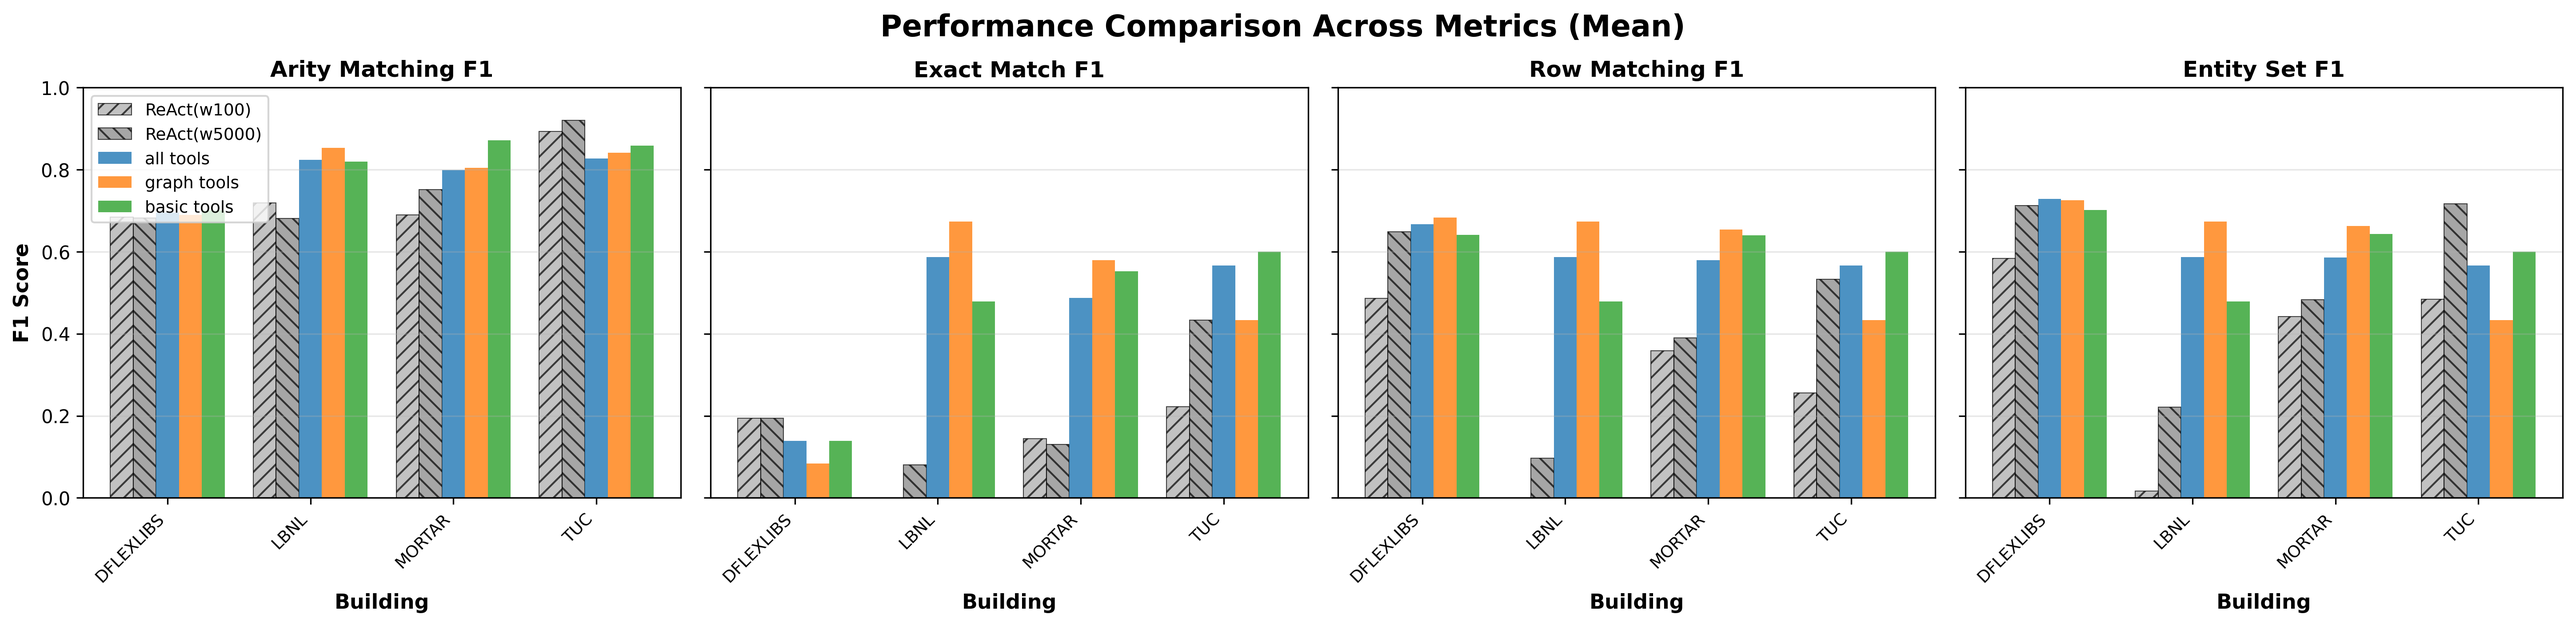
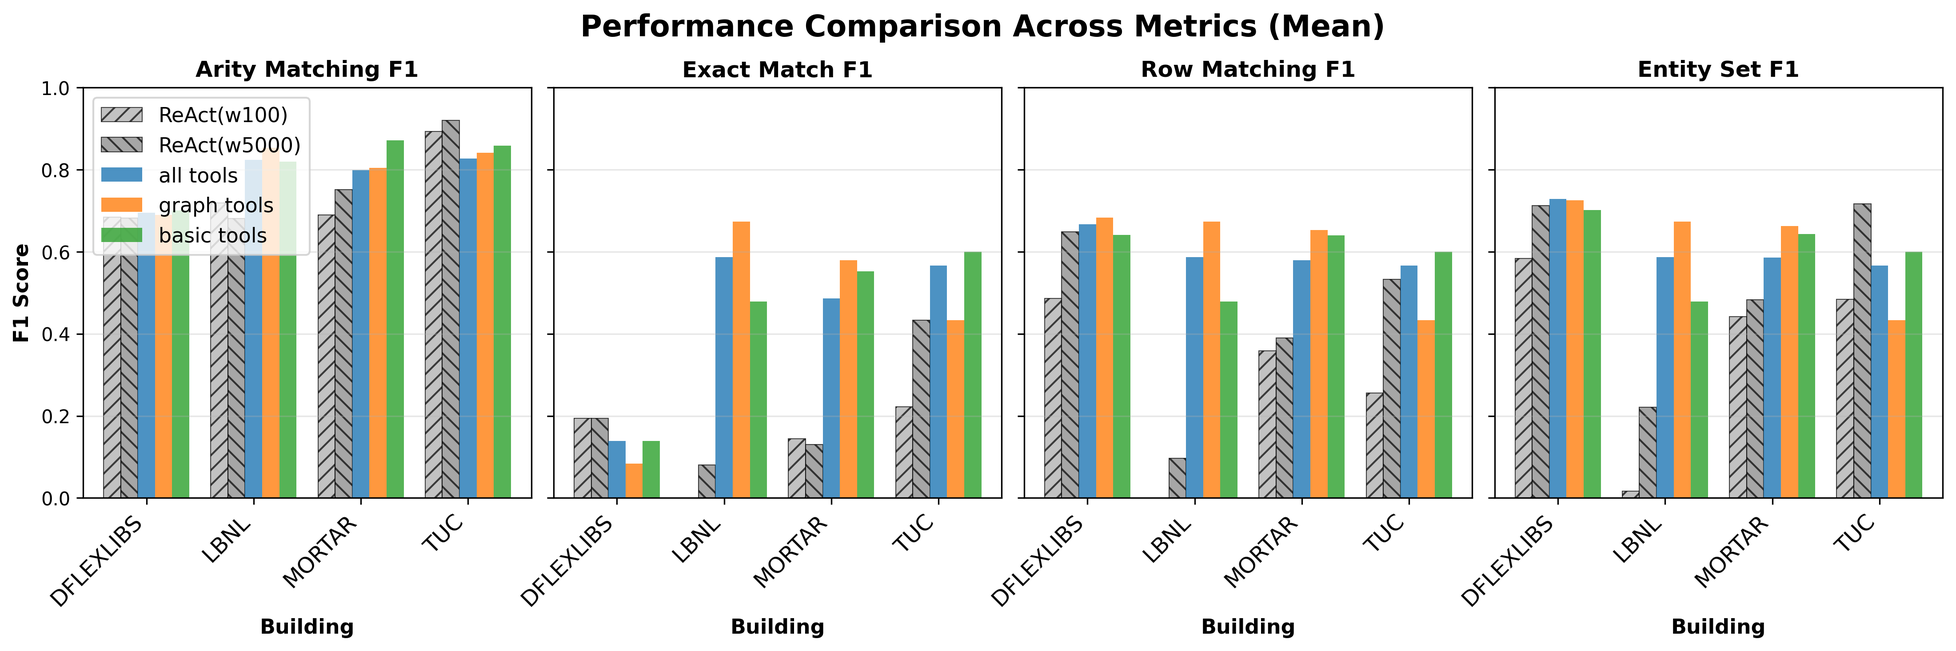
updating plots

diff --git a/scripts/visualize_metrics.py b/scripts/visualize_metrics.py
@@ -149,93 +149,6 @@ def compute_overall_metrics(data):
 
 
 # ----------------------------------------------------------------------
-# Bar chart: Mean by Building with baseline/test distinction
-# ----------------------------------------------------------------------
-def plot_building_comparison_bars(
-    baseline_dict: Dict[str, dict],
-    test_dict: Dict[str, dict],
-    f1_metric: str = "exact_match_f1",
-    output_path: str = "building_comparison.png"
-):
-    """
-    Create grouped bar chart comparing mean F1 scores by building across CSVs.
-    
-    Args:
-        baseline_dict: Dict mapping baseline names to building stats
-        test_dict: Dict mapping test names to building stats
-        f1_metric: Which F1 metric to plot
-        output_path: Where to save the figure
-    """
-    # Get all unique buildings across all CSVs
-    all_buildings = set()
-    for stats in list(baseline_dict.values()) + list(test_dict.values()):
-        all_buildings.update(stats.keys())
-    buildings = sorted(all_buildings)
-    
-    # Prepare data
-    x = np.arange(len(buildings))
-    total_bars = len(baseline_dict) + len(test_dict)
-    width = 0.8 / total_bars  # Width of bars
-    
-    fig, ax = plt.subplots(figsize=(14, 4))
-    
-    # Baseline colors (grays) and patterns
-    baseline_colors = ['#A9A9A9', '#808080', '#696969', '#5C5C5C']
-    hatches = ['///', '\\\\\\', '|||', '---']
-    
-    # Test colors (vibrant)
-    test_colors = ['#1f77b4', '#ff7f0e', '#2ca02c', '#d62728', '#9467bd', '#8c564b']
-    
-    bar_idx = 0
-    
-    # Plot baselines first
-    for i, (name, stats) in enumerate(baseline_dict.items()):
-        means = []
-        for building in buildings:
-            if building in stats:
-                means.append(stats[building]["f1_scores"][f1_metric]["mean"])
-            else:
-                means.append(0.0)
-        
-        offset = width * (bar_idx - total_bars / 2 + 0.5)
-        color = baseline_colors[i % len(baseline_colors)]
-        hatch = hatches[i % len(hatches)]
-        ax.bar(x + offset, means, width, label=f"{name}", 
-               alpha=0.7, color=color, hatch=hatch, edgecolor='black', linewidth=0.5)
-        bar_idx += 1
-    
-    # Plot test runs
-    for i, (name, stats) in enumerate(test_dict.items()):
-        means = []
-        for building in buildings:
-            if building in stats:
-                means.append(stats[building]["f1_scores"][f1_metric]["mean"])
-            else:
-                means.append(0.0)
-        
-        offset = width * (bar_idx - total_bars / 2 + 0.5)
-        color = test_colors[i % len(test_colors)]
-        ax.bar(x + offset, means, width, label=name, 
-               alpha=0.8, color=color)
-        bar_idx += 1
-    
-    ax.set_xlabel('Building', fontsize=12, fontweight='bold')
-    ax.set_ylabel(f'{f1_metric.replace("_", " ").title()}', fontsize=12, fontweight='bold')
-    ax.set_title(f'Performance Comparison by Building\n({f1_metric.replace("_", " ").title()})', 
-                 fontsize=14, fontweight='bold')
-    ax.set_xticks(x)
-    ax.set_xticklabels(buildings, rotation=45, ha='right')
-    ax.legend()
-    ax.grid(axis='y', alpha=0.3)
-    ax.set_ylim(0, 1.0)  # Common y-axis for F1 scores
-    
-    plt.tight_layout()
-    plt.savefig(output_path, dpi=300, bbox_inches='tight')
-    print(f"Bar chart saved to: {output_path}")
-    plt.close()
-
-
-# ----------------------------------------------------------------------
 # Scatter plot: Mean Performance vs Token Count (Overall)
 # ----------------------------------------------------------------------
 def plot_performance_vs_tokens_scatter(
@@ -320,7 +233,7 @@ def plot_all_f1_metrics_comparison(
     f1_metrics = ["arity_matching_f1", "exact_match_f1", "row_matching_f1", "entity_set_f1"]
     metric_titles = ["Arity Matching F1", "Exact Match F1", "Row Matching F1", "Entity Set F1"]
     
-    fig, axes = plt.subplots(1, 4, figsize=(24, 4))
+    fig, axes = plt.subplots(1, 4, figsize=(18, 4))
     
     # Get all unique buildings
     all_buildings = set()
@@ -383,9 +296,9 @@ def plot_all_f1_metrics_comparison(
             ax.set_yticklabels([])  # Remove y-axis labels for non-leftmost plots
         ax.set_title(title, fontsize=12, fontweight='bold')
         ax.set_xticks(x)
-        ax.set_xticklabels(buildings, rotation=45, ha='right', fontsize=9)
+        ax.set_xticklabels(buildings, rotation=45, ha='right', fontsize=12)
         if idx == 0:
-            ax.legend(fontsize=9, loc='upper left')
+            ax.legend(fontsize=11, loc='upper left')
         ax.grid(axis='y', alpha=0.3)
         ax.set_ylim(0, 1.0)  # Common y-axis for all F1 scores
     
@@ -394,96 +307,6 @@ def plot_all_f1_metrics_comparison(
     plt.subplots_adjust(wspace=0.05)  # Make plots touch each other
     plt.savefig(output_path, dpi=300, bbox_inches='tight')
     print(f"Multi-panel comparison saved to: {output_path}")
-    plt.close()
-
-
-# ----------------------------------------------------------------------
-# Single-row multi-panel visualization with selected metrics (CV)
-# ----------------------------------------------------------------------
-def plot_all_f1_metrics_cv_comparison(
-    baseline_dict: Dict[str, dict],
-    test_dict: Dict[str, dict],
-    output_path: str = "all_metrics_cv_comparison.png"
-):
-    """Create a single-row figure comparing selected F1 metrics (coefficient of variation values)."""
-    # Metrics in specified order: arity, exact match, row match, entity set
-    f1_metrics = ["arity_matching_f1", "exact_match_f1", "row_matching_f1", "entity_set_f1"]
-    metric_titles = ["Arity Matching F1", "Exact Match F1", "Row Matching F1", "Entity Set F1"]
-    
-    fig, axes = plt.subplots(1, 4, figsize=(24, 5))
-    
-    # Get all unique buildings
-    all_buildings = set()
-    for stats in list(baseline_dict.values()) + list(test_dict.values()):
-        all_buildings.update(stats.keys())
-    buildings = sorted(all_buildings)
-    
-    x = np.arange(len(buildings))
-    total_bars = len(baseline_dict) + len(test_dict)
-    width = 0.8 / total_bars
-    
-    # Baseline colors and patterns
-    baseline_colors = ['#A9A9A9', '#808080', '#696969', '#5C5C5C']
-    hatches = ['///', '\\\\\\', '|||', '---']
-    
-    # Test colors
-    test_colors = ['#1f77b4', '#ff7f0e', '#2ca02c', '#d62728', '#9467bd', '#8c564b']
-    
-    for idx, (f1_metric, title) in enumerate(zip(f1_metrics, metric_titles)):
-        ax = axes[idx]
-        bar_idx = 0
-        
-        # Plot baselines
-        for i, (name, stats) in enumerate(baseline_dict.items()):
-            cvs = []
-            for building in buildings:
-                if building in stats:
-                    cvs.append(stats[building]["f1_scores"][f1_metric]["cv"])
-                else:
-                    cvs.append(0.0)
-            
-            offset = width * (bar_idx - total_bars / 2 + 0.5)
-            color = baseline_colors[i % len(baseline_colors)]
-            hatch = hatches[i % len(hatches)]
-            label = f"{name}" if idx == 0 else None
-            ax.bar(x + offset, cvs, width, label=label, 
-                   alpha=0.7, color=color, hatch=hatch, edgecolor='black', linewidth=0.5)
-            bar_idx += 1
-        
-        # Plot test runs
-        for i, (name, stats) in enumerate(test_dict.items()):
-            cvs = []
-            for building in buildings:
-                if building in stats:
-                    cvs.append(stats[building]["f1_scores"][f1_metric]["cv"])
-                else:
-                    cvs.append(0.0)
-            
-            offset = width * (bar_idx - total_bars / 2 + 0.5)
-            color = test_colors[i % len(test_colors)]
-            label = name if idx == 0 else None
-            ax.bar(x + offset, cvs, width, label=label, 
-                   alpha=0.8, color=color)
-            bar_idx += 1
-        
-        ax.set_xlabel('Building', fontsize=11, fontweight='bold')
-        if idx == 0:
-            ax.set_ylabel('Coefficient of Variation', fontsize=11, fontweight='bold')
-        else:
-            ax.set_yticklabels([])  # Remove y-axis labels for non-leftmost plots
-        ax.set_title(title, fontsize=12, fontweight='bold')
-        ax.set_xticks(x)
-        ax.set_xticklabels(buildings, rotation=45, ha='right', fontsize=9)
-        if idx == 0:
-            ax.legend(fontsize=9, loc='upper left')
-        ax.grid(axis='y', alpha=0.3)
-        # Auto-scale y-axis for CV
-    
-    fig.suptitle('Performance Variability Across Metrics (Coefficient of Variation)', 
-                 fontsize=16, fontweight='bold', y=1.02)
-    plt.subplots_adjust(wspace=0.05)  # Make plots touch each other
-    plt.savefig(output_path, dpi=300, bbox_inches='tight')
-    print(f"Multi-panel CV comparison saved to: {output_path}")
     plt.close()
 
 
@@ -567,13 +390,7 @@ def main():
     
     # Generate visualizations
     print("\nGenerating visualizations...")
-    
-    plot_building_comparison_bars(
-        baseline_dict,
-        test_dict,
-        f1_metric=args.f1_metric,
-        output_path=str(output_dir / f"building_comparison_{args.f1_metric}.png")
-    )
+
     
     plot_performance_vs_tokens_scatter(
         baseline_overall_dict,
@@ -585,12 +402,6 @@ def main():
         baseline_dict,
         test_dict,
         output_path=str(output_dir / "all_metrics_comparison.png")
-    )
-    
-    plot_all_f1_metrics_cv_comparison(
-        baseline_dict,
-        test_dict,
-        output_path=str(output_dir / "all_metrics_cv_comparison.png")
     )
     
     print("\nAll visualizations complete!")
